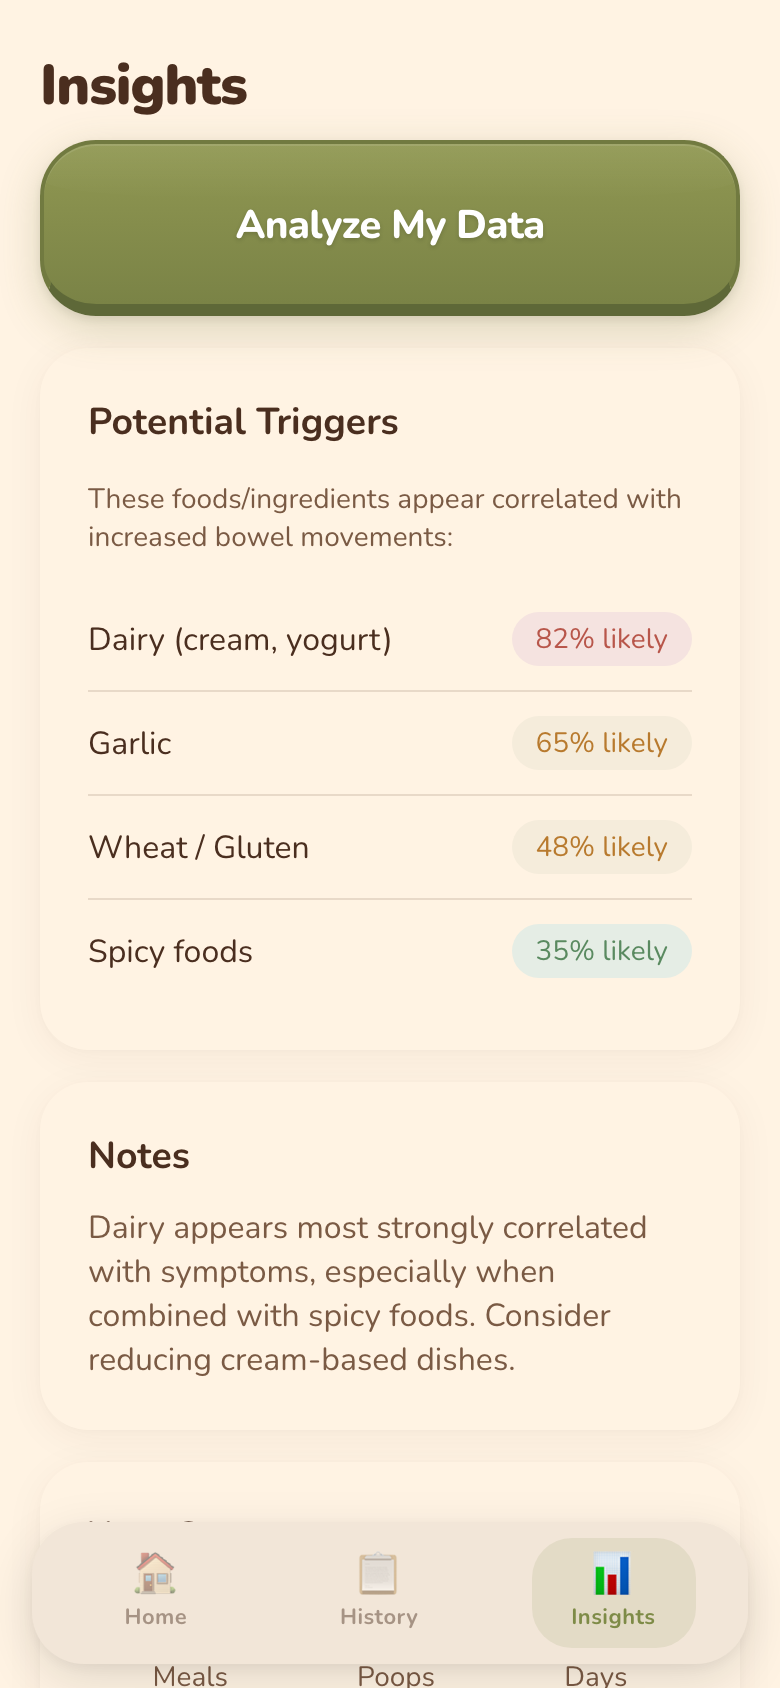
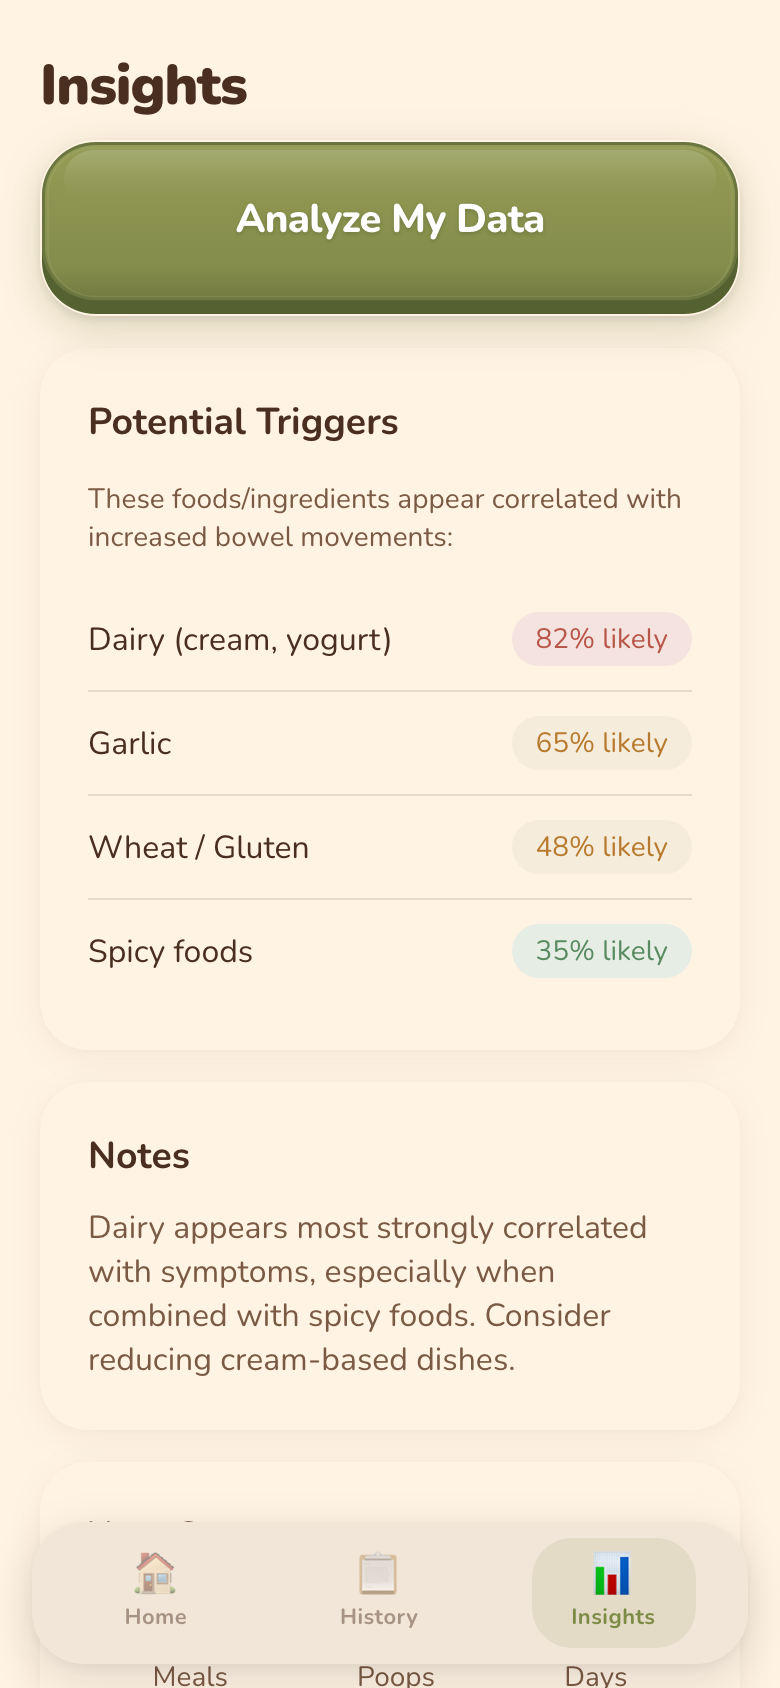
Switch buttons to SVG background skins for pixel-perfect 3D slab look
- Create SVG button skins with layered depth: lip, rim, body,
  gloss, and inner highlight baked into the SVG
- src/assets/button-green.svg and button-orange.svg
- Replace CSS gradient/border approach with background-image SVGs
- Remove ::before gloss pseudo-elements (SVG handles it)
- Press state uses scale(0.985) + brightness(0.92) filter
- Add padding-bottom to center text in body area above lip
- Regenerate all mockups

Changed region(s): [[0.3077, 0.1232, 0.7077, 0.154], [0.8923, 0.0924, 0.9538, 0.1848], [0.0308, 0.1232, 0.0923, 0.1848]]

diff --git a/src/index.css b/src/index.css
@@ -57,63 +57,39 @@ body {
 }
 
 .btn-primary {
-  background: linear-gradient(180deg, #909852 0%, #858D4C 50%, #7A8346 100%);
+  background: url(./assets/button-green.svg) no-repeat center / 100% 100%;
   color: white;
-  border: 2px solid #717A40;
-  border-bottom: 6px solid #5E6838;
+  border: none;
+  padding-bottom: 9px;
   box-shadow:
-    inset 0 1px 0 rgba(255, 255, 255, 0.10),
     0 6px 20px rgba(113, 122, 64, 0.25),
     0 2px 4px rgba(0, 0, 0, 0.08);
   text-shadow: 0 1px 2px rgba(0, 0, 0, 0.15);
 }
 
-.btn-primary::before {
-  content: '';
-  position: absolute;
-  top: 0;
-  left: 0;
-  right: 0;
-  height: 35%;
-  background: linear-gradient(180deg, rgba(255, 255, 255, 0.06) 0%, rgba(255, 255, 255, 0) 100%);
-  border-radius: 26px 26px 50% 50%;
-  pointer-events: none;
-}
-
 .btn-primary:active {
+  transform: scale(0.985);
+  filter: brightness(0.92);
   box-shadow:
-    inset 0 3px 6px rgba(0, 0, 0, 0.15),
     0 2px 8px rgba(113, 122, 64, 0.15),
     0 1px 2px rgba(0, 0, 0, 0.04);
 }
 
 .btn-secondary {
-  background: linear-gradient(180deg, #E8944A 0%, #DE8840 50%, #D07C38 100%);
+  background: url(./assets/button-orange.svg) no-repeat center / 100% 100%;
   color: white;
-  border: 2px solid #BA6E30;
-  border-bottom: 6px solid #9A5A24;
+  border: none;
+  padding-bottom: 9px;
   box-shadow:
-    inset 0 1px 0 rgba(255, 255, 255, 0.10),
     0 6px 20px rgba(186, 110, 48, 0.25),
     0 2px 4px rgba(0, 0, 0, 0.08);
   text-shadow: 0 1px 2px rgba(0, 0, 0, 0.12);
 }
 
-.btn-secondary::before {
-  content: '';
-  position: absolute;
-  top: 0;
-  left: 0;
-  right: 0;
-  height: 35%;
-  background: linear-gradient(180deg, rgba(255, 255, 255, 0.06) 0%, rgba(255, 255, 255, 0) 100%);
-  border-radius: 26px 26px 50% 50%;
-  pointer-events: none;
-}
-
 .btn-secondary:active {
+  transform: scale(0.985);
+  filter: brightness(0.92);
   box-shadow:
-    inset 0 3px 6px rgba(0, 0, 0, 0.15),
     0 2px 8px rgba(186, 110, 48, 0.15),
     0 1px 2px rgba(0, 0, 0, 0.04);
 }
